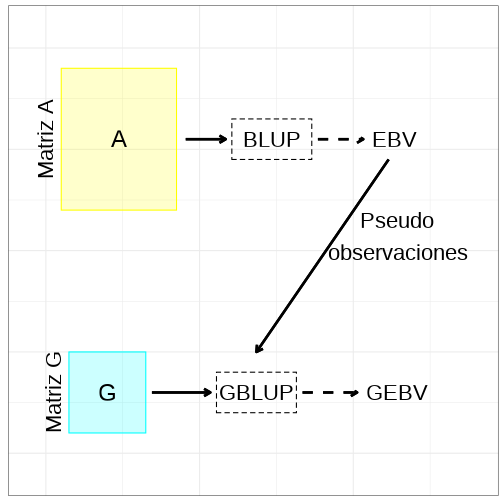
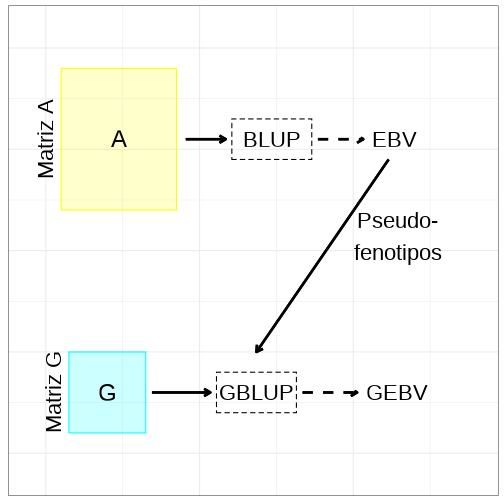
Se avanzó en la presentación.

Changed region(s): [[0.6548, 0.4167, 0.9226, 0.5357]]

diff --git a/Presentacion/index.html b/Presentacion/index.html
@@ -147,6 +147,7 @@ NOTA: X y Z son las matrices de incidencia o matrices diseño de los efectos fij
 
 &lt;P align="justify"&gt;&lt;FONT SIZE=2&gt;[1] &lt;a name=cite-citejpgg&gt;&lt;/a&gt;[Gutiérrez (2010)](#bib-citejpgg).&lt;/FONT&gt;&lt;/p&gt;
 &lt;P align="justify"&gt;&lt;FONT SIZE=2&gt;[2] [Blasco (2021)](#bib-cite21).&lt;/FONT&gt;&lt;/p&gt;
+
 ]
 
 ---
@@ -183,13 +184,15 @@ class: center
 
 &lt;!--
 NOTA: esencialmente, todos los enfoques de selección genómica son de naturaleza estadística, ya que se basan en el aprendizaje de una relación matemática entre los datos genotípicos y fenotípicos que luego se utilizan para la predicción. En este sentido, los enfoques de selección genómica son parte del aprendizaje automático que tiene como objetivo desarrollar y analizar más el rendimiento de los modelos mediante el uso de un conjunto de datos de entrenamiento. Luego, los modelos se utilizan con datos no vistos para hacer predicciones.
+
+NOTA: el uso de marcadores puede proporcionar la relación genética realizada teniendo en cuenta el muestreo mendeliano, a diferencia de la relación genética esperada a partir de una matriz de relación derivada del pedigrí.
 --&gt;
 
 ]
 
-.panel[.panel-name[Matriz de parentesco]
+.panel[.panel-name[Desventaja del GBLUP - I]
 
-&lt;P align="justify"&gt;La matriz **G**, &lt;sup&gt;1&lt;/sup&gt;.&lt;/p&gt;
+&lt;P align="justify"&gt;Para implementar la selección genómica mediante **GBLUP**, es necesario disponer de información genotípica de todos los individuos, situación que puede ser desventajosa&lt;sup&gt;1&lt;/sup&gt;.&lt;/p&gt;
 
 &lt;img src="index_files/figure-html/unnamed-chunk-9-1.png" width="70%" style="display: block; margin: auto;" /&gt;
 
@@ -199,19 +202,69 @@ NOTA: esencialmente, todos los enfoques de selección genómica son de naturalez
 
 ]
 
-.panel[.panel-name[Múltiples pasos]
+.panel[.panel-name[Desventaja del GBLUP - II]
 
-&lt;img src="index_files/figure-html/unnamed-chunk-11-1.png" width="70%" style="display: block; margin: auto;" /&gt;
+&lt;P align="justify"&gt;El **GBLUP** es un método de varios pasos, con una evaluación genética con BLUP, seguidos de la extracción de pseudofenotipos, un análisis genómico y la creación de un índice que combina esta información&lt;sup&gt;2&lt;/sup&gt;.&lt;/p&gt;
+
+&lt;img src="index_files/figure-html/unnamed-chunk-11-1.png" width="68%" style="display: block; margin: auto;" /&gt;
+
+]
+
+.panel[.panel-name[Desventaja del GBLUP - III]
+
+.pull-left[
+
+.content-box-red[
+.small[
+&lt;P align="justify"&gt;Pueden existir individuos con fenotipos y pseudofenotipos.&lt;/p&gt;
+]
+]
+
+&lt;br&gt;
+
+.content-box-yellow[
+.small[
+&lt;P align="justify"&gt;Las precisiones de los pseudofenotipos son difíciles de obtener.&lt;/p&gt;
+]
+]
+
+]
+
+.pull-right[
+
+.content-box-yellow[
+.small[
+&lt;P align="justify"&gt;La creación de pseudofenotipos puede ser ineficaz si los individuos tienen poca descendencia.&lt;/p&gt;
+]
+]
+
+&lt;br&gt;
+
+.content-box-red[
+.small[
+&lt;P align="justify"&gt;Es difícil de generalizarse a caracteres múltiples y maternos.&lt;/p&gt;
+]
+]
+
+]
 
 ]
 
 ]
 
+.footnote[
 
+&lt;P align="justify"&gt;&lt;FONT SIZE=2&gt;[1] &lt;a name=cite-cite17&gt;&lt;/a&gt;[Legarra, Aguilar, and Misztal (2009)](https://doi.org/10.3168/jds.2009-2061).&lt;/FONT&gt;&lt;/p&gt;
+&lt;P align="justify"&gt;&lt;FONT SIZE=2&gt;[2] &lt;a name=cite-cite39&gt;&lt;/a&gt;[VanRaden (2007)](#bib-cite39).&lt;/FONT&gt;&lt;/p&gt;
 
-&lt;!--
-En teoría, el uso de marcadores puede proporcionar la relación genética realizada teniendo en cuenta el muestreo mendeliano, a diferencia de la relación genética esperada a partir de una matriz de relación derivada del pedigrí.
---&gt;
+]
+
+---
+class: center
+
+### Introducción
+
+&lt;img src="index_files/figure-html/unnamed-chunk-12-1.png" width="70%" style="display: block; margin: auto;" /&gt;
 
 ---
 
@@ -228,11 +281,21 @@ genética animal_. 1st edition. EDITORIAL SÍNTESIS, S. A, p. 206. ISBN:
 _Iniciación a la valoración genética animal_. 1st edition. EDITORIAL
 COMPLUTENSE, p. 221. ISBN: 978-84-9938-021-6.
 
+&lt;a name=bib-cite17&gt;&lt;/a&gt;[Legarra, A., I. Aguilar, and I.
+Misztal](#cite-cite17) (2009). "A relationship matrix including full
+pedigree and genomic information". In: _Journal of Dairy Science_ 92,
+p. 4656–4663. DOI:
+[10.3168/jds.2009-2061](https://doi.org/10.3168%2Fjds.2009-2061).
+
 &lt;a name=bib-cite7&gt;&lt;/a&gt;[Tong, H. and Z. Nikoloski](#cite-cite7) (2021).
 "Machine learning approaches for crop improvement: leveraging
 phenotypic and genotypic big data". In: _Journal of Plant Physiology_
 257, p. 153354. DOI:
 [10.1016/j.jplph.2020.153354](https://doi.org/10.1016%2Fj.jplph.2020.153354).
+
+&lt;a name=bib-cite39&gt;&lt;/a&gt;[VanRaden, P. M.](#cite-cite39) (2007).
+"Efficient methods to compute genomic predictions". In: _Journal of
+Dairy Science_ 91, p. 4414–4423.
 
 ---
 
